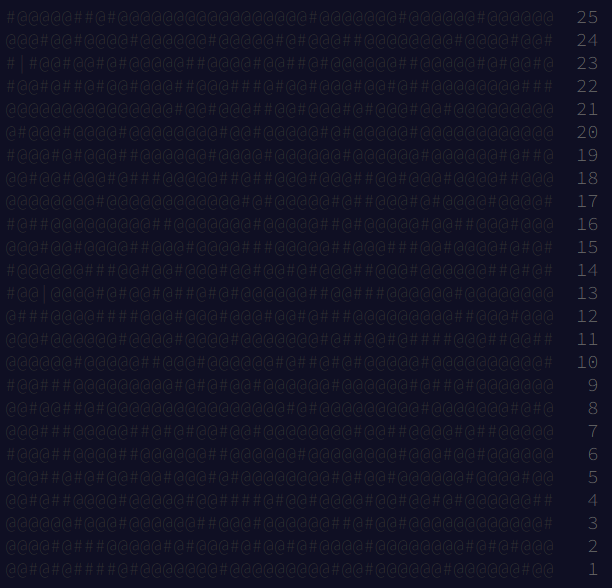
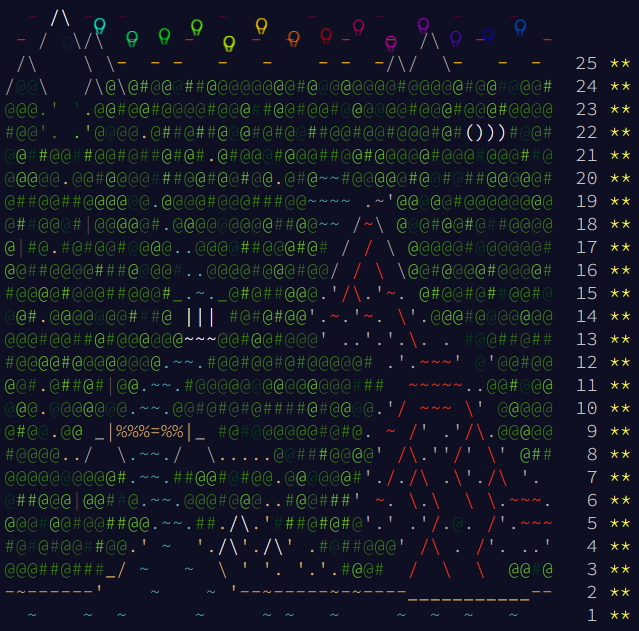
Updating the main page graphic

diff --git a/2022/main_page/grab_screenshots.py b/2022/main_page/grab_screenshots.py
@@ -91,7 +91,7 @@ def main():
                 {"dupes": 3, "frames": 1, "extra": "", "hide_stars": (1, 2)},
                 {"dupes": 3, "frames": 1, "extra": "", "hide_stars": (2, )},
                 {"dupes": 3, "frames": 1, "extra": "", "hide_stars": None},
-                {"dupes": 1, "frames": 100, "extra": "", "hide_stars": None},
+                {"dupes": 1, "frames": 600, "extra": "", "hide_stars": None},
             ]
         else:
             steps = [

diff --git a/2022/README.md b/2022/README.md
@@ -18,3 +18,4 @@ Some visualizations for your viewing pleasure:
 * Day 20: [Sorting the buffer](https://youtu.be/Df63_i2p7jA)
 * Day 23: [The elves moving](https://youtu.be/s3xn8bOo6pA) (Warning: Flashing lights), [Smoothed version](https://youtu.be/yPZwSp3Te_M)
 * Day 24: [Moving amongst the wind](https://youtu.be/1lCGzchS6L4) (Warning: Flashing lights)
+* [The calendar itself](https://youtu.be/I4h1X-Bq29s)
